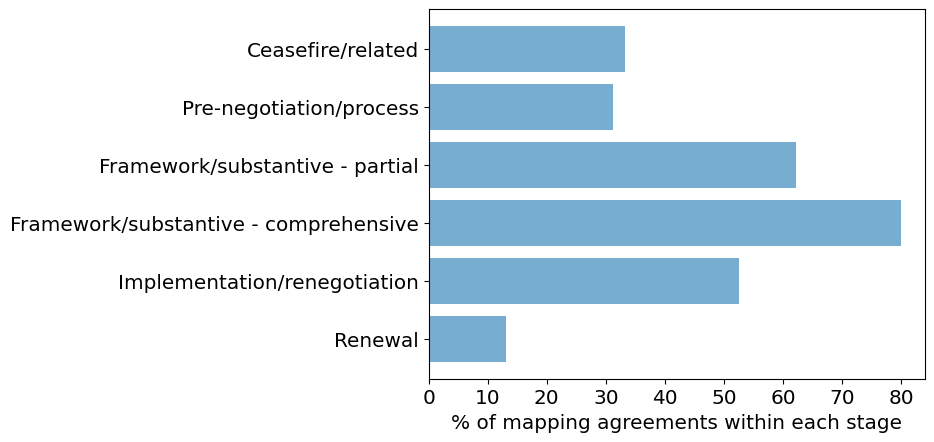
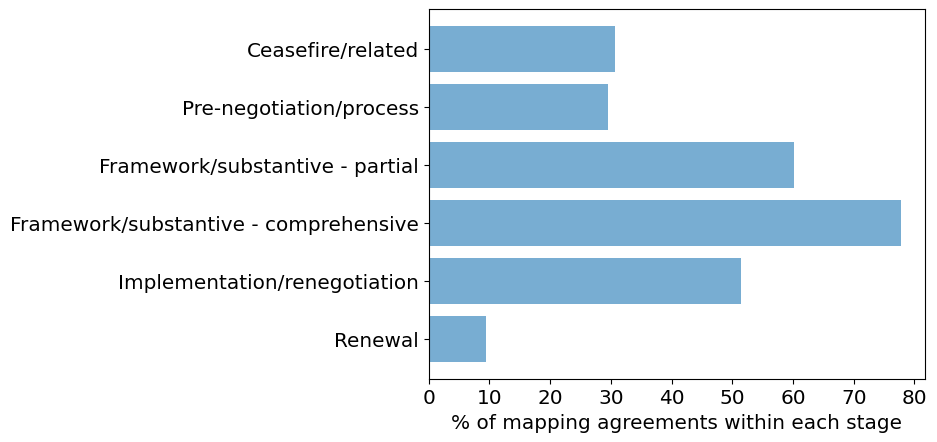
Updated text and figures
Fixed bug where constitutions that were not in-force.

diff --git a/stages.html b/stages.html
@@ -14,17 +14,17 @@
 		</div>
 		<div>
 			<p>
-				There are 1447 agreements in the mapping analysis. Of these 1447 agreements, 1080 precede an in-force constitution.
+				There are 1447 agreements in the mapping analysis. Of these 1447 agreements, 981 precede an in-force constitution.
 			</p>
 			<p>
-				Of the 1080 agreements that precede an in-force constitution, 481 contain provisions that map onto sections of the constitution. These 481 agreements are referred to as mapping agreements. 
-				The remaining 599 agreements are the non-mapping agreements.
+				Of the 981 agreements that precede an in-force constitution, 415 contain provisions that map onto sections of the constitution. These 415 agreements are referred to as mapping agreements. 
+				The remaining 566 agreements are the non-mapping agreements.
 			</p>
 		</div>
 		<div>
 			<div>
 				<p>
-				Plot 1 below shows the distribution over stages of the 599 non-mapping agreements.
+				Plot 1 below shows the distribution over stages of the 566 non-mapping agreements.
 				</p>
 			</div>
 			<div id="plot_1">
@@ -35,7 +35,7 @@
 		<div>
 			<div>
 				<p>
-				Plot 2 below shows the distribution over stages of the 481 mappping agreements. Pearson's correlation coefficient for plots 1 and 2 is 0.56 with a p-value of 0.25.
+				Plot 2 below shows the distribution over stages of the 415 mappping agreements. Pearson's correlation coefficient for plots 1 and 2 is 0.56 with a p-value of 0.24.
 				</p>
 			</div>
 			<div id="plot_2">
@@ -58,7 +58,7 @@
 		<div>
 			<div>
 				<p>
-					Plot 4 below shows the distribution over stages of mapped constitution sections, i.e., those sections semantically similar to provisions of the 481 mapping agreements.
+					Plot 4 below shows the distribution over stages of mapped constitution sections, i.e., those sections semantically similar to provisions of the 415 mapping agreements.
 				</p>	
 			</div>
 			<div id="plot_4">
